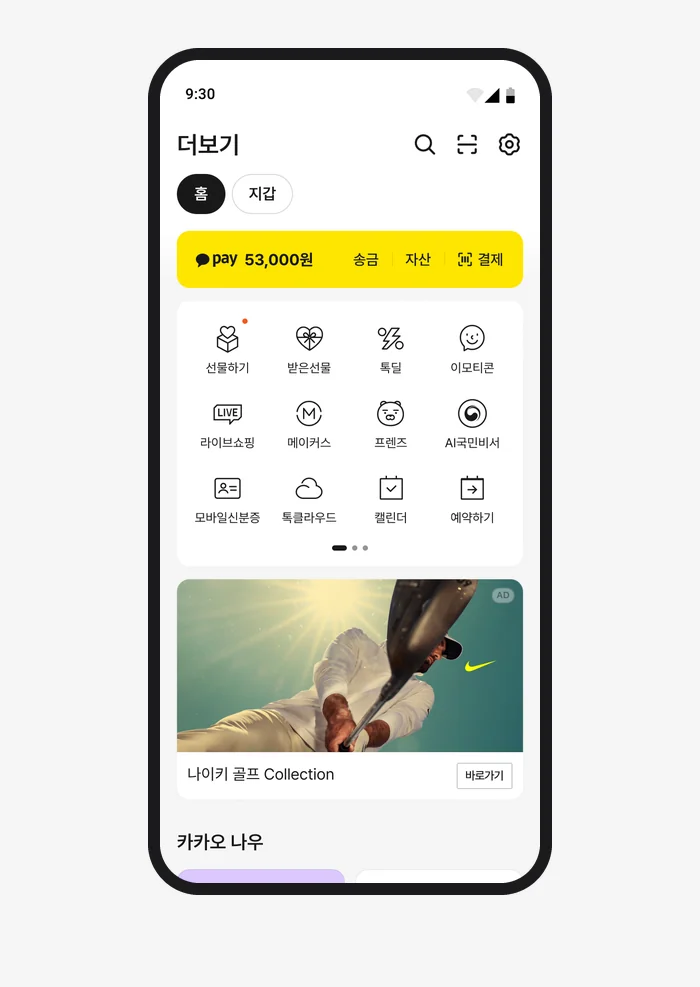
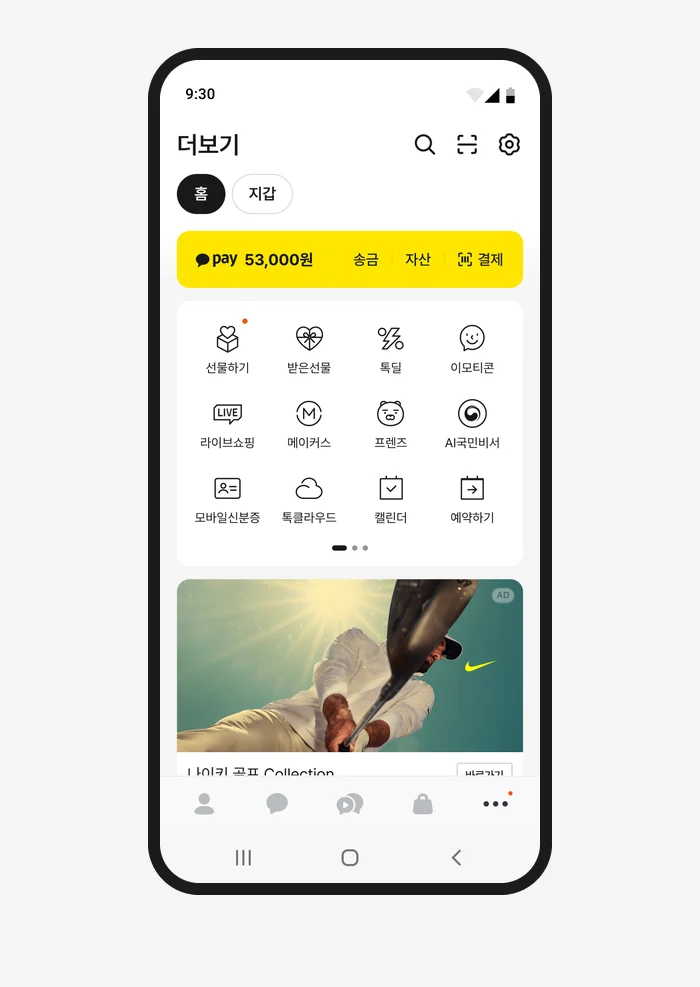
폰 프레임 시안에 하단 탭바 추가(CASE 01·02·03)

diff --git a/list-exploration.html b/list-exploration.html
@@ -23,8 +23,8 @@
   <article class="cs">
     <figure class="cs-hero">
       <picture>
-        <source media="(max-width:820px)" srcset="img/case02/hero-m-v5.webp" width="700" height="959">
-        <img src="img/case02/hero-v5.webp" width="2240" height="1494" alt="실험안 B 더보기탭 첫 화면을 폰 한 대로 보여준다. 상단 제목과 칩, 페이 영역, 광고 아래에 쇼핑 카테고리로 묶인 서비스 리스트">
+        <source media="(max-width:820px)" srcset="img/case02/hero-m-v5.webp?v=tb1" width="700" height="989">
+        <img src="img/case02/hero-v5.webp?v=tb1" width="2240" height="1489" alt="실험안 B 더보기탭 첫 화면을 폰 한 대로 보여준다. 상단 제목과 칩, 페이 영역, 광고 아래에 쇼핑 카테고리로 묶인 서비스 리스트">
       </picture>
     </figure>
 
@@ -84,14 +84,14 @@
     </section>
 
     <section class="cs-block">
-    <figure class="cs-fig cs-stage cs-abc-d" style="--cb:7.22%">
-      <img src="img/case02/abc-v5.webp" width="2240" height="1330" alt="세 실험안의 첫 화면을 폰 세 대로 나란히 보여준다. A안은 광고 아래 가나다순 전체 서비스, B안은 광고 아래 쇼핑 카테고리, C안은 쇼핑 카테고리가 광고 위에 있다">
+    <figure class="cs-fig cs-stage cs-abc-d" style="--cb:6.82%">
+      <img src="img/case02/abc-v5.webp?v=tb1" width="2240" height="1407" alt="세 실험안의 첫 화면을 폰 세 대로 나란히 보여준다. A안은 광고 아래 가나다순 전체 서비스, B안은 광고 아래 쇼핑 카테고리, C안은 쇼핑 카테고리가 광고 위에 있다">
       <figcaption style="left:22.77%">A안 · 가나다순</figcaption><figcaption style="left:50%">B안 · 카테고리순</figcaption><figcaption style="left:77.23%">C안 · 쇼핑을 광고 위로</figcaption>
     </figure>
     <div class="cs-abc-m">
-      <figure class="cs-stage" style="--cbm:4.24%"><img src="img/case02/abc-m-a-v5.webp" width="700" height="944" alt="A안 첫 화면. 광고 아래 전체 서비스가 가나다순으로 정렬되어 있다"><figcaption>A안 · 가나다순</figcaption></figure>
-      <figure class="cs-stage" style="--cbm:4.24%"><img src="img/case02/abc-m-b-v5.webp" width="700" height="944" alt="B안 첫 화면. 광고 아래 쇼핑 카테고리로 묶인 서비스 리스트"><figcaption>B안 · 카테고리순</figcaption></figure>
-      <figure class="cs-stage" style="--cbm:4.24%"><img src="img/case02/abc-m-c-v5.webp" width="700" height="944" alt="C안 첫 화면. 쇼핑 카테고리가 광고 위에 있다"><figcaption>C안 · 쇼핑을 광고 위로</figcaption></figure>
+      <figure class="cs-stage" style="--cbm:4.05%"><img src="img/case02/abc-m-a-v5.webp?v=tb1" width="700" height="987" alt="A안 첫 화면. 광고 아래 전체 서비스가 가나다순으로 정렬되어 있다"><figcaption>A안 · 가나다순</figcaption></figure>
+      <figure class="cs-stage" style="--cbm:4.05%"><img src="img/case02/abc-m-b-v5.webp?v=tb1" width="700" height="987" alt="B안 첫 화면. 광고 아래 쇼핑 카테고리로 묶인 서비스 리스트"><figcaption>B안 · 카테고리순</figcaption></figure>
+      <figure class="cs-stage" style="--cbm:4.05%"><img src="img/case02/abc-m-c-v5.webp?v=tb1" width="700" height="987" alt="C안 첫 화면. 쇼핑 카테고리가 광고 위에 있다"><figcaption>C안 · 쇼핑을 광고 위로</figcaption></figure>
     </div>
       <div class="cs-sec cs-col">
         <p class="cs-label">디자인</p>
@@ -137,7 +137,7 @@
 
     <section class="cs-block">
       <figure class="cs-fig cs-stage" style="--cb:6.82%;--cbm:4.05%">
-        <picture><source media="(max-width:820px)" srcset="img/case02/next-mixed-m.webp" width="700" height="988"><img src="img/case02/next-mixed.webp" width="2240" height="1408" alt="다음 실험의 혼합 UI 첫 화면. 4열 2행 그리드와 광고 아래로 카테고리 리스트가 이어진다" loading="lazy"></picture>
+        <picture><source media="(max-width:820px)" srcset="img/case02/next-mixed-m.webp?v=tb1" width="700" height="988"><img src="img/case02/next-mixed.webp?v=tb1" width="2240" height="1408" alt="다음 실험의 혼합 UI 첫 화면. 4열 2행 그리드와 광고 아래로 카테고리 리스트가 이어진다" loading="lazy"></picture>
         <figcaption style="left:50%">다음 실험 · 그리드와 리스트를 함께</figcaption>
       </figure>
       <div class="cs-sec cs-col">

diff --git a/pay-boosting.html b/pay-boosting.html
@@ -23,8 +23,8 @@
   <article class="cs">
     <figure class="cs-hero">
       <picture>
-        <source media="(max-width:820px)" srcset="img/case01/hero-m.webp" width="700" height="1005">
-        <img src="img/case01/hero.webp" width="2240" height="1509" alt="3차 개선안 더보기탭 첫 화면을 폰 한 대로 보여준다. 노란 페이 영역 아래에 자산 정보 두 줄, 그 아래 서비스 바로가기와 광고">
+        <source media="(max-width:820px)" srcset="img/case01/hero-m.webp?v=tb1" width="700" height="1005">
+        <img src="img/case01/hero.webp?v=tb1" width="2240" height="1509" alt="3차 개선안 더보기탭 첫 화면을 폰 한 대로 보여준다. 노란 페이 영역 아래에 자산 정보 두 줄, 그 아래 서비스 바로가기와 광고">
       </picture>
     </figure>
 
@@ -75,13 +75,13 @@
 
     <section class="cs-block">
       <figure class="cs-fig cs-stage cs-abc-d" style="--cb:6.82%">
-        <img src="img/case01/design-trio.webp" width="2240" height="1407" alt="대조군, 2차 실험안, 3차 개선안의 첫 화면을 폰 세 대로 나란히 보여준다" loading="lazy">
+        <img src="img/case01/design-trio.webp?v=tb1" width="2240" height="1407" alt="대조군, 2차 실험안, 3차 개선안의 첫 화면을 폰 세 대로 나란히 보여준다" loading="lazy">
         <figcaption style="left:21.34%">대조군</figcaption><figcaption style="left:50%">2차 실험안</figcaption><figcaption style="left:78.66%">3차 개선안</figcaption>
       </figure>
       <div class="cs-abc-m">
-        <figure class="cs-stage" style="--cbm:4.05%"><img src="img/case01/design-ctrl-m.webp" width="700" height="987" alt="대조군 첫 화면. 한 줄 페이 영역 아래 4열 3행 서비스 그리드" loading="lazy"><figcaption>대조군</figcaption></figure>
-        <figure class="cs-stage" style="--cbm:4.05%"><img src="img/case01/design-2nd-m.webp" width="700" height="987" alt="2차 실험안 첫 화면. 노란 테두리 안에 자산 정보 세 줄을 펼친 페이 영역" loading="lazy"><figcaption>2차 실험안</figcaption></figure>
-        <figure class="cs-stage" style="--cbm:4.05%"><img src="img/case01/design-3rd-m.webp" width="700" height="987" alt="3차 개선안 첫 화면. 잔액이 머리에 들어간 페이 영역과 자산 정보 두 줄" loading="lazy"><figcaption>3차 개선안</figcaption></figure>
+        <figure class="cs-stage" style="--cbm:4.05%"><img src="img/case01/design-ctrl-m.webp?v=tb1" width="700" height="987" alt="대조군 첫 화면. 한 줄 페이 영역 아래 4열 3행 서비스 그리드" loading="lazy"><figcaption>대조군</figcaption></figure>
+        <figure class="cs-stage" style="--cbm:4.05%"><img src="img/case01/design-2nd-m.webp?v=tb1" width="700" height="987" alt="2차 실험안 첫 화면. 노란 테두리 안에 자산 정보 세 줄을 펼친 페이 영역" loading="lazy"><figcaption>2차 실험안</figcaption></figure>
+        <figure class="cs-stage" style="--cbm:4.05%"><img src="img/case01/design-3rd-m.webp?v=tb1" width="700" height="987" alt="3차 개선안 첫 화면. 잔액이 머리에 들어간 페이 영역과 자산 정보 두 줄" loading="lazy"><figcaption>3차 개선안</figcaption></figure>
       </div>
       <div class="cs-sec cs-col">
         <p class="cs-label">디자인</p>
@@ -128,7 +128,7 @@
 
     <section class="cs-block">
       <figure class="cs-fig cs-stage" style="--cb:6.82%;--cbm:4.05%">
-        <picture><source media="(max-width:820px)" srcset="img/case01/next-m.webp" width="700" height="987"><img src="img/case01/next.webp" width="2240" height="1407" alt="다음 실험의 리스트형 B안 첫 화면. 페이 영역은 대조군과 같고, 광고 아래에 카테고리별 서비스 리스트가 이어진다" loading="lazy"></picture>
+        <picture><source media="(max-width:820px)" srcset="img/case01/next-m.webp?v=tb1" width="700" height="987"><img src="img/case01/next.webp?v=tb1" width="2240" height="1407" alt="다음 실험의 리스트형 B안 첫 화면. 페이 영역은 대조군과 같고, 광고 아래에 카테고리별 서비스 리스트가 이어진다" loading="lazy"></picture>
         <figcaption style="left:50%">다음 실험 · 탐색 영역만 따로</figcaption>
       </figure>
       <div class="cs-sec cs-col">

diff --git a/grid-list-hybrid.html b/grid-list-hybrid.html
@@ -23,8 +23,8 @@
   <article class="cs">
     <figure class="cs-hero">
       <picture>
-        <source media="(max-width:820px)" srcset="img/case03/hero-m-v5.webp" width="700" height="960">
-        <img src="img/case03/hero-v5.webp" width="2240" height="1494" alt="실험안 D 더보기탭 화면을 폰 두 대로 보여준다. 왼쪽은 첫 화면으로 상단 제목·칩·페이 영역·4열 2행 그리드·광고, 오른쪽은 아래로 스크롤한 화면으로 라이프·쇼핑 카테고리 리스트. 좁은 화면에서는 첫 화면 한 대만 보인다">
+        <source media="(max-width:820px)" srcset="img/case03/hero-m-v5.webp?v=tb1" width="700" height="989">
+        <img src="img/case03/hero-v5.webp?v=tb1" width="2240" height="1490" alt="실험안 D 더보기탭 화면을 폰 두 대로 보여준다. 왼쪽은 첫 화면으로 상단 제목·칩·페이 영역·4열 2행 그리드·광고, 오른쪽은 아래로 스크롤한 화면으로 라이프·쇼핑 카테고리 리스트. 좁은 화면에서는 첫 화면 한 대만 보인다">
       </picture>
     </figure>
 
@@ -42,10 +42,10 @@
 
     <section class="cs-block">
       <figure class="cs-fig cs-stage cs-abc-d" style="--cb:6.82%">
-        <img src="img/case03/start-pair.webp" width="2240" height="1407" alt="두 화면 비교. 왼쪽 대조군은 페이 영역 아래 첫 화면에 4열 3행 서비스 그리드가 있고, 오른쪽 리스트형 B안은 광고 아래로 서비스가 카테고리 리스트로 내려가 있다" loading="lazy">
+        <img src="img/case03/start-pair.webp?v=tb1" width="2240" height="1407" alt="두 화면 비교. 왼쪽 대조군은 페이 영역 아래 첫 화면에 4열 3행 서비스 그리드가 있고, 오른쪽 리스트형 B안은 광고 아래로 서비스가 카테고리 리스트로 내려가 있다" loading="lazy">
         <figcaption style="left:33.66%">대조군 · 첫 화면 그리드</figcaption><figcaption style="left:66.34%">리스트형 B안 · 광고 아래 리스트</figcaption>
       </figure>
-      <div class="cs-abc-m"><figure class="cs-stage" style="--cbm:4.05%"><img src="img/case03/start-ctrl-m.webp" width="700" height="987" alt="대조군 화면. 첫 화면에 4열 3행 서비스 그리드" loading="lazy"><figcaption>대조군 · 첫 화면 그리드</figcaption></figure><figure class="cs-stage" style="--cbm:4.05%"><img src="img/case03/start-list-m.webp" width="700" height="987" alt="리스트형 B안 화면. 광고 아래 카테고리 리스트" loading="lazy"><figcaption>리스트형 B안 · 광고 아래 리스트</figcaption></figure></div>
+      <div class="cs-abc-m"><figure class="cs-stage" style="--cbm:4.05%"><img src="img/case03/start-ctrl-m.webp?v=tb1" width="700" height="987" alt="대조군 화면. 첫 화면에 4열 3행 서비스 그리드" loading="lazy"><figcaption>대조군 · 첫 화면 그리드</figcaption></figure><figure class="cs-stage" style="--cbm:4.05%"><img src="img/case03/start-list-m.webp?v=tb1" width="700" height="987" alt="리스트형 B안 화면. 광고 아래 카테고리 리스트" loading="lazy"><figcaption>리스트형 B안 · 광고 아래 리스트</figcaption></figure></div>
       <div class="cs-sec cs-col">
         <p class="cs-label">출발점</p>
         <h2>리스트로 바꾸자 서비스가 첫 화면에서 내려갔습니다</h2>
